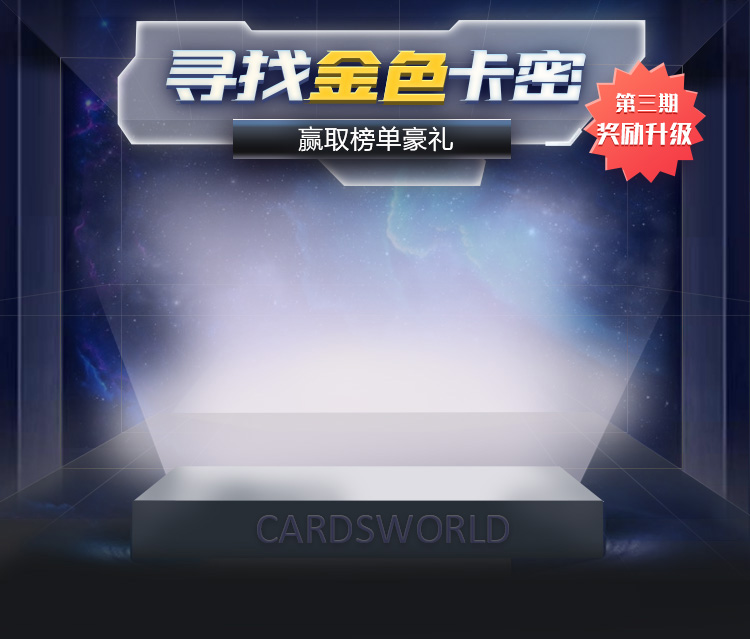
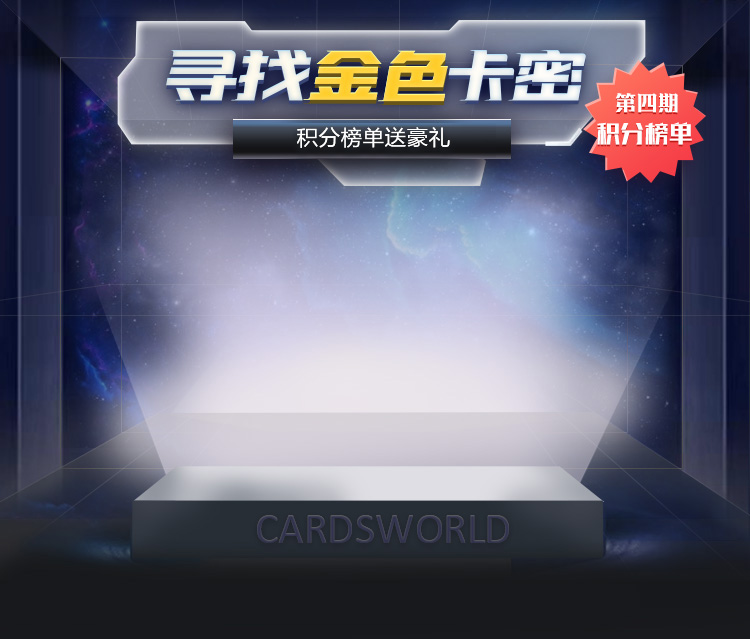
正式版本活动修改

Changed region(s): [[0.3987, 0.1784, 0.6133, 0.2379], [0.7973, 0.1487, 0.92, 0.2379]]

diff --git a/src/pages/act/goldCard/index.vue b/src/pages/act/goldCard/index.vue
@@ -2,18 +2,18 @@
 	<view class="content">
 		<view class="top-bg">
 			<view class="top-help" @click="showPopup = true"></view>
-			<view class="top-time">4.8-4.10</view>
+			<view class="top-time">4.13-4.15</view>
 			<view class="top-card-box">
 				<image class="top-card-pic"  :class="index==1?'card-center':''" v-for="(item,index) in cardPic" :key="index" :src="item"></image>
 			</view>
-			<view class="top-tips">nba随机卡种、随机球员拼团有概率获取金色卡密</view>
+			<view class="top-tips">金卡积分=金卡x卡密单价（仅限NBA随机类型拼团）</view>
 		</view>
 
 		<!-- 卡密榜 -->
 		<view class="title-box">
 			<view class="title-content">
 				<view class="title-content-rank">我的排名:{{userRanking.ranking}}</view>
-				<view class="title-content-num">({{userRanking.gold_num}})</view>
+				<view class="title-content-num">({{userRanking.gold_value}})</view>
 			</view>
 		</view>
 
@@ -29,7 +29,7 @@
 					<view class="rank-header-reward">
 						<view class="rank-header-award">{{item.award}}</view>
 						<!-- <image class="rank-header-reward-pic" :src="item.award"></image> -->
-						<view class="rank-header-goldnum">{{item.gold_num}}</view>
+						<view class="rank-header-goldnum">{{item.gold_value}}</view>
 					</view>
 				</view>
 			</view>
@@ -41,7 +41,7 @@
 						<image class="rank-box-content-pic" :src="item.userAvatar!=''?decodeURIComponent(item.userAvatar):defaultAvatar"></image>
 						<view class="rank-box-content-avatar-name">{{item.userName!=''?item.userName:'虚位以待'}}</view>
 					</view>
-					<view class="rank-box-content-num">{{item.gold_num}}</view>
+					<view class="rank-box-content-num">{{item.gold_value}}</view>
 					<view class="rank-box-content-reward">{{getRewardName(index)}}</view>
 				</view>
 			</view>
@@ -68,7 +68,7 @@
 		defaultAvatar = app.defaultAvatar
 		userRanking:any = {
 			ranking:'暂未上榜',
-			gold_num:'12金卡'
+			gold_value:0
 		};
 		cardPic:any = [
 			'../static/goldCard/card1.png',
@@ -76,27 +76,27 @@
 			'../static/goldCard/card3.png',
 		]
 		rulesData = [
-			'1、玩家可通过NBA随机卡种、随机球员类拼团商品触发卡密抽取动画，可有概率获取金色卡密',
-			'2、活动共3天，根据玩家获取金色卡密数量由高到低排名，榜单每10分钟更新一次',
-			'3、活动结束后，可结算排名奖励。实物类奖品请联系客服发货（包邮）；优惠券类奖品将在2小时内自动发放'
+			'1、玩家可通过NBA随机卡种、随机球员类拼团有概率获取金卡积分，金卡积分=金卡x卡密单价（如：小明参与10组单价为2.5元的拼团，抽到2张金色卡密，共获得5积分）',
+			'2、活动共3天，根据玩家获取金卡积分由高到低排名',
+			'3、每期结束后，结算排名奖励。实物类奖品请联系客服发货（包邮）；优惠券类奖品将在2小时内自动发放至我的-优惠券，有效期为60天，请注意查收'
 		]
 		rankListTop:any = {
 			0:{
 				userName: "",
 				userAvatar:'',
-				gold_num:0,
+				gold_value:0,
 				award:'黑曜石 HOBBY*1盒'
 			},
 			1:{
 				userName: "",
 				userAvatar:'',
-				gold_num:0,
+				gold_value:0,
 				award:'Hoops HOBBY*1盒'
 			},
 			2:{
 				userName: "",
 				userAvatar:'',
-				gold_num:0,
+				gold_value:0,
 				award:'PRIZM MEGA*1盒'
 			},
 		};
@@ -105,7 +105,7 @@
 				userName: "", //用户昵称
 				userAvatar: "", //用户头像
 				ranking: 1, //排名，越小越靠前
-				gold_num: 0, //金卡数量
+				gold_value: 0, //金卡数量
 				award: "", //奖品
 			}
 		];
@@ -152,7 +152,7 @@
 					for(let i in this.rankListTop){
 						this.rankListTop[i].userName = res.data.list[i].userName;
 						this.rankListTop[i].userAvatar = res.data.list[i].userAvatar;
-						this.rankListTop[i].gold_num = res.data.list[i].gold_num;
+						this.rankListTop[i].gold_value = res.data.list[i].gold_value;
 					}
 					res.data.list.splice(0,3);
 					this.rankList = res.data.list;

diff --git a/src/App.vue b/src/App.vue
@@ -14,8 +14,8 @@ export default Vue.extend({
     if (process.env.NODE_ENV === "development") {
       // console.log("开发环境");
       // app.localTest=true;
-      // app.domaintest='http://192.168.8.80:8701/api/v1/';
-      // app.bussinessApiDomain='http://192.168.8.80:8701/api/v1/';
+      // app.domaintest='http://192.168.8.79:8701/api/v1/';
+      // app.bussinessApiDomain='http://192.168.8.79:8701/api/v1/';
       
     } else {
       console.log("生产环境");
